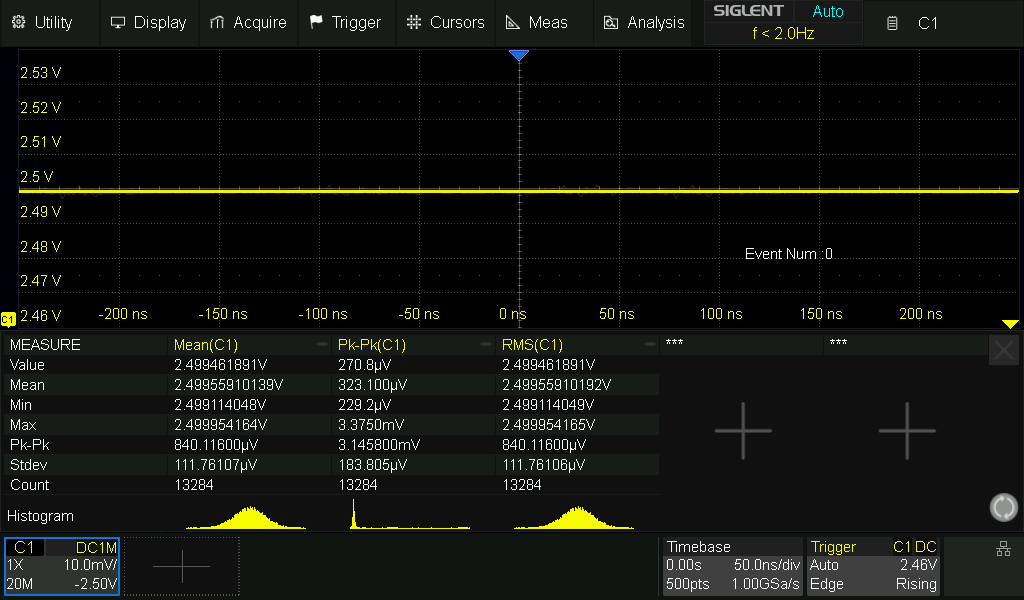
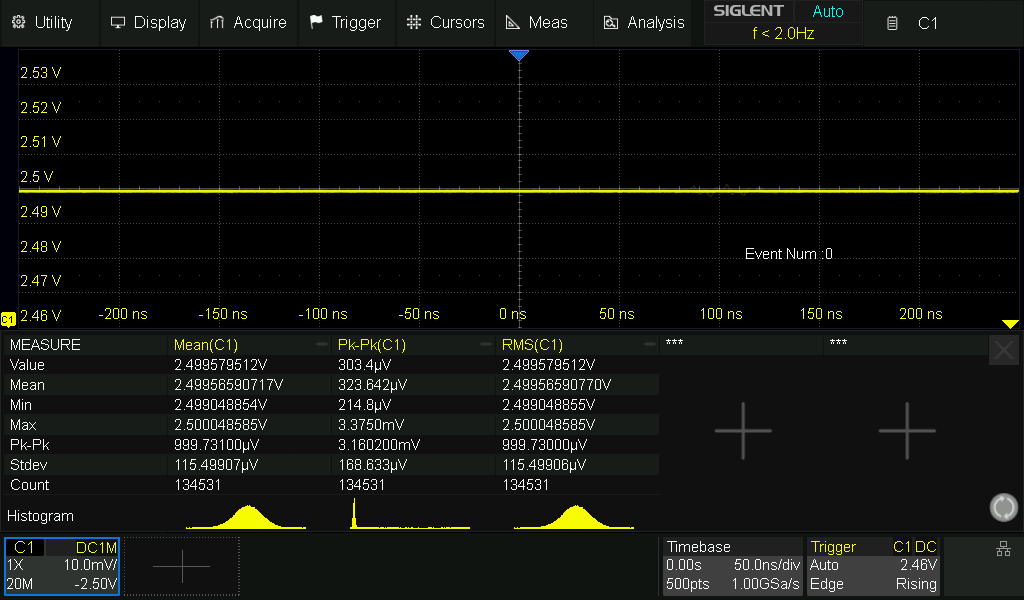
Updated README

diff --git a/README.md b/README.md
@@ -68,13 +68,16 @@ While sinking 16mA of total current, the charge pump output drops to around 4.87
 Currently, I don't own a precision multimeter, which makes it harder to measure how stable the output voltage really is. What I do own is a DSO with a 12-bit ADC (SDS800X), and it seems to read the voltage accurately up to 4 digits easily. The high-frequency noise at the output seems a bit annoying and likely skews the results a bit.
 
 ![Reference_stability](Photos/Output_20MBW_No_Filter.png)
-Reference voltage with No filter(BW: 20MHz)
+Reference voltage with No filter(Coupling: DC , BW: 20MHz)
 
 ## Filtering
-In the end, I attempted to filter out the high-frequency noise using a simple RC filter with a cutoff frequency of around 1.5 kHz to achieve a more stable result. I also substituted the resistor with a ferrite bead. Both methods worked well in attenuating the noise. Although the filter did not eliminate it entirely, the noise was attenuated by approximately 25 dB when using the ferrite bead.
+In the end, I attempted to filter out the high-frequency noise using a simple RC filter with a cutoff frequency of around 1.5 kHz to achieve a more stable result. I also substituted the resistor with a ferrite bead. Both methods worked well in attenuating the noise. Although the filter did not eliminate it entirely, the noise was attenuated by approximately 20 dB when using the ferrite bead.
 
-![Reference_stability](Photos/ScreenImg_RC_Filter.png)
-Reference voltage with a Ferrite Bead Pi Filter (BW: 20MHz)
+![Attenuated_Noise](Photos/ScreenImg_FB_Filter20_AC_coupled.png)
+Noise measurement with a Ferrite Bead Pi Filter (Coupling: AC , BW: 20MHz)
+
+![Attenuated_Noise_DC](Photos/ScreenImg_FB_Filter20_DC_coupled.png)
+Reference voltage with Ferrite Bead and a 10uF capacitor filter(Coupling: DC , BW: 20MHz)
 
 ## PCB Layout
 The following schematic and PCB are designed with KiCad 9.
